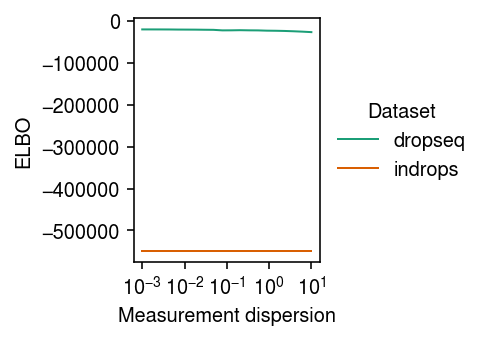
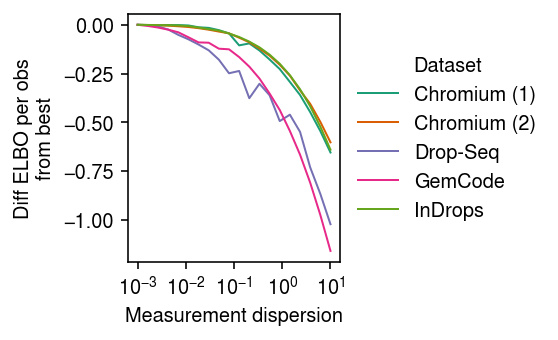
Rerun EBNBM on control data

Changed region(s): [[0.0, 0.0294, 0.9836, 0.9706], [0.7377, 0.5882, 0.8914, 0.6471], [0.0307, 0.1765, 0.0615, 0.2647]]

diff --git a/docs/ebnbm.html b/docs/ebnbm.html
@@ -1,7 +1,7 @@
 <!DOCTYPE html>
 <html lang="en">
 <head>
-<!-- 2020-09-05 Sat 13:56 -->
+<!-- 2020-09-05 Sat 21:18 -->
 <meta charset="utf-8">
 <meta name="viewport" content="width=device-width, initial-scale=1">
 <title>Negative binomial measurement model</title>
@@ -1081,16 +1081,10 @@ Fit the model to each control data set.
   <span class="org-keyword">return</span> scmodes.ebpm.ebpm_gamma(x[:,j].ravel(), s.ravel())
 
 <span class="org-keyword">def</span> <span class="org-function-name">_fit</span>(theta, x, s, par):
-  <span class="org-comment-delimiter"># </span><span class="org-comment">Important: ebpm_gamma can return np.inf is data is consistent with Poisson</span>
-  <span class="org-comment-delimiter"># </span><span class="org-comment">observation model</span>
-  <span class="org-variable-name">init</span> = np.ma.masked_invalid(np.hstack([
-    np.exp(par[:,1]),
-    np.exp(par[:,1] - par[:,0]),
-    1e-3])).filled(1e6)
   <span class="org-keyword">return</span> scmodes.ebnbm.ebnbm_gamma(
     x,
     s,
-    init=init,
+    init=np.hstack([np.exp(par[:,1]), np.exp(par[:,1] - par[:,0]), theta]),
     tol=1e-3,
     max_iters=100_000,
     extrapolate=<span class="org-constant">True</span>,
@@ -1104,16 +1098,18 @@ Fit the model to each control data set.
   <span class="org-variable-name">x</span> = dat.X.A
   <span class="org-variable-name">s</span> = x.<span class="org-builtin">sum</span>(axis=1, keepdims=<span class="org-constant">True</span>)
   <span class="org-variable-name">par</span> = pool.<span class="org-builtin">map</span>(ft.partial(_init, x=x, s=s), <span class="org-builtin">range</span>(x.shape[1]))
-  <span class="org-variable-name">par</span> = np.array(par)
+  <span class="org-comment-delimiter"># </span><span class="org-comment">Important: ebpm_gamma can return np.inf is data is consistent with Poisson</span>
+  <span class="org-comment-delimiter"># </span><span class="org-comment">observation model. exp(20) is finite and large enough.</span>
+  <span class="org-variable-name">par</span> = np.ma.masked_invalid(np.array(par)).filled(20)
   <span class="org-variable-name">grid</span> = np.logspace(-3, 1, 20)
   <span class="org-variable-name">fits</span> = pool.<span class="org-builtin">map</span>(ft.partial(_fit, x=x, s=s, par=par), grid)
-<span class="org-keyword">with</span> <span class="org-builtin">open</span>(f<span class="org-string">'/scratch/midway2/aksarkar/modes/ebnbm-{d}.pkl'</span>, <span class="org-string">'wb'</span>) <span class="org-keyword">as</span> f:
+<span class="org-keyword">with</span> <span class="org-builtin">open</span>(f<span class="org-string">'/scratch/midway2/aksarkar/modes/ebnbm/ebnbm-{d}.pkl'</span>, <span class="org-string">'wb'</span>) <span class="org-keyword">as</span> f:
   pickle.dump(<span class="org-builtin">dict</span>(<span class="org-builtin">zip</span>(grid, fits)), f)
 </pre>
 </div>
 
 <div class="org-src-container">
-<pre class="src src-sh">sbatch --partition=gpu2 --gres=gpu:1 -w midway2-gpu05 -n1 -c28 --exclusive --time=24:00:00 -a 2
+<pre class="src src-sh">sbatch --partition=gpu2 --gres=gpu:1 -w midway2-gpu05 -n1 -c28 --exclusive -a 4
 <span class="org-comment-delimiter">#</span><span class="org-comment">!/bin/bash</span>
 <span class="org-builtin">source</span> activate scmodes
 python &lt;&lt;EOF
@@ -1134,8 +1130,8 @@ Read the fitted models.
 <div class="org-src-container">
 <pre class="src src-ipython"><span class="org-variable-name">elbo</span> = <span class="org-builtin">dict</span>()
 <span class="org-keyword">for</span> k <span class="org-keyword">in</span> data:
-  <span class="org-keyword">if</span> k <span class="org-keyword">in</span> control[:3]:
-    <span class="org-keyword">with</span> <span class="org-builtin">open</span>(f<span class="org-string">'/scratch/midway2/aksarkar/modes/ebnbm-{k}.pkl'</span>, <span class="org-string">'rb'</span>) <span class="org-keyword">as</span> f:
+  <span class="org-keyword">if</span> k <span class="org-keyword">in</span> control:
+    <span class="org-keyword">with</span> <span class="org-builtin">open</span>(f<span class="org-string">'/scratch/midway2/aksarkar/modes/ebnbm/ebnbm-{k}.pkl'</span>, <span class="org-string">'rb'</span>) <span class="org-keyword">as</span> f:
       <span class="org-variable-name">fits</span> = pickle.load(f)
       <span class="org-variable-name">elbo</span>[k] = pd.Series({theta: fits[theta][-1] <span class="org-keyword">for</span> theta <span class="org-keyword">in</span> fits})
 <span class="org-variable-name">elbo</span> = pd.DataFrame(elbo)
@@ -1143,16 +1139,20 @@ Read the fitted models.
 </div>
 
 <div class="org-src-container">
-<pre class="src src-ipython"><span class="org-variable-name">cm</span> = plt.get_cmap(<span class="org-string">'Dark2'</span>)
+<pre class="src src-ipython"><span class="org-variable-name">labels</span> = [<span class="org-string">'Chromium (1)'</span>, <span class="org-string">'Chromium (2)'</span>, <span class="org-string">'Drop-Seq'</span>, <span class="org-string">'GemCode'</span>, <span class="org-string">'InDrops'</span>]
+<span class="org-variable-name">keys</span> = [<span class="org-string">'chromium1'</span>, <span class="org-string">'chromium2'</span>, <span class="org-string">'dropseq'</span>, <span class="org-string">'gemcode'</span>, <span class="org-string">'indrops'</span>]
+<span class="org-variable-name">cm</span> = plt.get_cmap(<span class="org-string">'Dark2'</span>)
 plt.clf()
-plt.gcf().set_size_inches(3.5, 2.5)
+plt.gcf().set_size_inches(4, 2.5)
 plt.xscale(<span class="org-string">'log'</span>)
-<span class="org-keyword">for</span> i, k <span class="org-keyword">in</span> <span class="org-builtin">enumerate</span>(elbo):
-  plt.plot(elbo.index, elbo[k], lw=1, label=k, c=cm(i))
+<span class="org-keyword">for</span> i, (k, l) <span class="org-keyword">in</span> <span class="org-builtin">enumerate</span>(<span class="org-builtin">zip</span>(keys, labels)):
+  <span class="org-variable-name">n</span>, <span class="org-variable-name">p</span> = data[k]().shape
+  <span class="org-variable-name">diff</span> = elbo[k] - elbo[k].<span class="org-builtin">max</span>()
+  plt.plot(elbo.index, diff / (n * p), lw=1, label=l, c=cm(i))
 plt.legend(title=<span class="org-string">'Dataset'</span>, frameon=<span class="org-constant">False</span>, loc=<span class="org-string">'center left'</span>, bbox_to_anchor=(1, .5))
 plt.xticks(np.logspace(-3, 1, 5))
 plt.xlabel(r<span class="org-string">'Measurement dispersion'</span>)
-plt.ylabel(<span class="org-string">'ELBO'</span>)
+plt.ylabel(<span class="org-string">'Diff ELBO per obs\nfrom best'</span>)
 plt.tight_layout()
 </pre>
 </div>
@@ -1162,150 +1162,13 @@ plt.tight_layout()
 <p><img src="figure/ebnbm.org/ebnbm-control.png" alt="ebnbm-control.png">
 </p>
 </div>
-
-<div class="org-src-container">
-<pre class="src src-ipython"><span class="org-variable-name">dat</span> = data[<span class="org-string">'indrops'</span>]()
-<span class="org-variable-name">x</span> = dat.X.A
-<span class="org-variable-name">s</span> = x.<span class="org-builtin">sum</span>(axis=1, keepdims=<span class="org-constant">True</span>)
-<span class="org-variable-name">par</span> = np.array([scmodes.ebpm.ebpm_gamma(x[:,j].ravel(), s.ravel()) <span class="org-keyword">for</span> j <span class="org-keyword">in</span> <span class="org-builtin">range</span>(x.shape[1])])
-<span class="org-variable-name">init</span> = np.ma.masked_invalid(np.hstack([
-  np.exp(par[:,1]),
-  np.exp(par[:,1] - par[:,0]),
-  1e-3])).filled(1e6)
-</pre>
-</div>
-
-<div class="org-src-container">
-<pre class="src src-ipython">scmodes.ebnbm.ebnbm_gamma(
-  x,
-  s,
-  init=init,
-  tol=1e-3,
-  max_iters=10_000,
-  extrapolate=<span class="org-constant">True</span>,
-  fix_g=<span class="org-constant">False</span>,
-  fix_theta=<span class="org-constant">True</span>)
-</pre>
-</div>
-
-<pre class="example">
-(array([[ -7.68382635,  -1.5705429 ,  -4.58972578,  -2.63851718,
--5.21957773,  -9.95775709,  -9.81933889,  -9.08314382,
--10.51619082,  -2.35643432,  -7.77202749,  -6.11786917,
--10.31275327,  -7.21591208,  -9.41571775,  -2.35630979,
--8.37087558,  -8.41229882,  -7.08600131,  -2.35635002,
--9.93933094,  -9.74746508,  -4.9705232 ,  -5.18101723,
--7.37724959,  -3.63488734, -10.34277823,  -8.36730388,
--7.81897768,  -8.92658867, -10.22498517,  -9.87807411,
--8.79815753,  -5.61995968, -10.17145429,  -6.77873833,
--9.85820406,  -9.60490723,  -7.47988098, -10.71682089,
--1.84622738,  -9.34387974,  -6.0342135 ,  -9.15560746,
--7.97769752,  -7.36090524, -10.67601457,  -8.77269377,
--9.26641854,  -2.35626478,  -8.55696946,  -5.74014758,
--6.39954691,  -1.60083926,  -9.51831321,  -9.78311964,
--7.9369963 ,  -8.40643658,  -4.66739956, -10.47866198,
--5.06157435,  -6.73060607,  -2.99941656,  -6.18652123,
--9.71459998, -10.67520539,  -9.491491  ,  -9.2356603 ,
--1.86246841,  -6.50037837,  -9.24566254,  -4.01088253,
--10.28286967,  -8.61689711,  -2.35654768,  -9.33359859,
--7.85608109,  -5.03634943,  -8.94335001,  -9.02204987,
--9.63860936,  -9.23410296, -11.40453947,  -8.54985618,
--8.29251574,  -8.71606401,  -7.19087004,  -8.64454098,
--9.11852604,  -7.06693715,  -9.40317986,  -7.87494295,
--3.95760172,  -5.95802193,  -7.92387825,  -6.62701893,
--7.22664171,  -7.78497944,  -7.14075238,  -8.09898103,
--7.24823516,  -6.40236003,  -7.50341165]]),
-array([[ 2.03922743e+00,  5.76706664e+00,  4.34078287e+00,
-5.46514384e+00,  3.93918688e+00,  7.07716330e-01,
-7.36383472e-01,  5.39368052e-01,  8.05801054e-06,
-1.38155106e+01,  1.90471782e+00,  3.07694138e+00,
-4.81909012e-01,  2.46797791e+00,  8.99334057e-01,
-1.38155106e+01,  1.78343462e+00,  3.84079404e-01,
-2.82732315e+00,  1.38155106e+01,  5.59378079e-01,
-4.29143607e-01,  3.90037695e+00,  3.53860787e+00,
-2.41609955e+00,  4.11675897e+00,  4.37803765e-01,
-1.97265392e+00,  1.79670777e+00,  1.74171688e+00,
-5.53525082e-01,  2.89913625e-01,  1.48547964e+00,
-3.28351554e+00,  1.07205457e+00,  2.63601544e+00,
-6.72554560e-01,  1.48582461e+00,  2.28684609e+00,
-2.48423873e-01,  4.79952530e+00,  1.47007182e+00,
-2.90990838e+00,  8.98320814e-01,  1.62996172e+00,
-2.13592621e+00, -1.16889209e-04,  1.84761683e+00,
-1.42729438e+00,  1.38155106e+01,  1.68000304e+00,
-3.28910435e+00,  2.77248656e+00,  6.28424480e+00,
-9.70176005e-01,  4.63133899e-02,  1.45622153e+00,
-1.71715066e+00,  4.22357888e+00, -9.62778629e-04,
-3.88837294e+00,  3.08437127e+00,  5.29905609e+00,
-3.16539814e+00,  6.16619614e-01, -1.08585424e-03,
-7.50459167e-01,  7.70626743e-01,  5.82929406e+00,
-2.71937828e+00,  7.30230007e-01,  4.50146543e+00,
-5.01365615e-01,  1.27335250e+00,  1.38155106e+01,
-2.83514714e-01,  2.35211647e+00,  3.92533158e+00,
-4.12571204e-01,  1.32810383e+00,  1.71989517e-04,
-6.77370876e-01, -2.69873002e+00,  3.32786554e-01,
-1.93832479e+00,  1.36946837e+00,  2.54074591e+00,
-1.64351009e+00,  8.09048289e-01,  2.62050499e+00,
-1.05433089e+00,  1.80842790e+00,  4.64728589e+00,
-3.28120756e+00,  2.42432625e+00,  2.84244306e+00,
-2.35615143e+00,  1.81219046e+00,  2.00685084e+00,
-1.84177346e+00,  2.38104267e+00,  3.03714986e+00,
-2.18607826e+00]]),
--6.907755278982137,
-array([[  8.68466997, 498.59885645,  83.76761507, ...,  10.81617468,
-21.84574527,   9.90024013],
-[ 11.68466997, 565.59885645,  94.76761507, ...,  11.81617468,
-25.84574527,   9.90024013],
-[ 10.68466997, 563.59885645,  86.76761507, ...,  10.81617468,
-20.84574527,   9.90024013],
-...,
-[  7.68466997, 551.59885645,  84.76761507, ...,  11.81617468,
-22.84574527,   8.90024013],
-[  8.68466997, 562.59885645,  86.76761507, ...,  14.81617468,
-21.84574527,   8.90024013],
-[  8.68466997, 537.59885645,  93.76761507, ...,  11.81617468,
-20.84574527,   9.90024013]]),
-array([[17638.80586169,  2468.34020627,  8497.00879257, ...,
-16143.01716081, 13515.14249644, 17087.60717035],
-[17994.38181152,  2815.00152311,  8856.44139851, ...,
-16495.7050647 , 13870.97171612, 17439.52351373],
-[17909.05257597,  2740.66801049,  8764.7824871 , ...,
-16410.64783482, 13781.42681954, 17355.55470231],
-...,
-[17819.75853656,  2658.18785377,  8677.83532918, ...,
-16325.81953106, 13697.7741546 , 17268.53091062],
-[17999.78521366,  2820.93333506,  8856.59341879, ...,
-16508.28947163, 13875.26899424, 17447.31653412],
-[17852.80705273,  2678.15200432,  8718.35073896, ...,
-16357.80071833, 13727.61134712, 17301.57108267]]),
-array([[1001., 1179., 1007., ..., 1000., 1001., 1001.],
-[1004., 1246., 1018., ..., 1001., 1005., 1001.],
-[1003., 1244., 1010., ..., 1000., 1000., 1001.],
-...,
-[1000., 1232., 1008., ..., 1001., 1002., 1000.],
-[1001., 1243., 1010., ..., 1004., 1001., 1000.],
-[1001., 1218., 1017., ..., 1001., 1000., 1001.]]),
-array([[1000.46281987, 1189.87776639, 1009.26697384, ..., 1000.62982057,
-1001.51940688, 1000.54461843],
-[1000.8389615 , 1259.59265618, 1013.82493861, ..., 1000.92548319,
-1002.40738022, 1000.73345526],
-[1000.72070151, 1248.41659624, 1011.9586857 , ..., 1000.79618667,
-1001.82721721, 1000.68908717],
-...,
-[1000.48385615, 1232.82550029, 1010.96002177, ..., 1000.81207243,
-1001.87132054, 1000.57828135],
-[1000.62771614, 1259.4677099 , 1012.74583374, ..., 1001.16764631,
-1002.04834332, 1000.66366724],
-[1000.56137442, 1231.64819597, 1012.41150202, ..., 1000.83360018,
-1001.75237989, 1000.66033755]]),
--549542.3630526108)
-</pre>
 </div>
 </div>
 </div>
 </div>
 <div id="postamble" class="status">
 <p class="author">Author: Abhishek Sarkar</p>
-<p class="date">Created: 2020-09-05 Sat 13:56</p>
+<p class="date">Created: 2020-09-05 Sat 21:18</p>
 <p class="validation"><a href="http://validator.w3.org/check?uri=referer">Validate</a></p>
 </div>
 </body>
